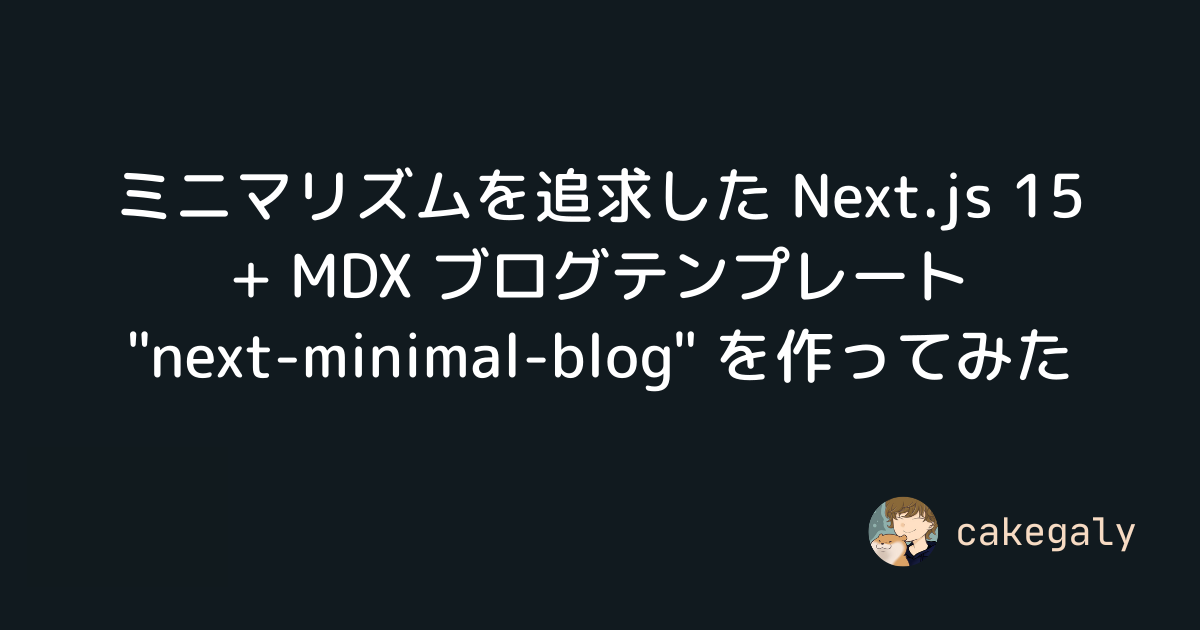
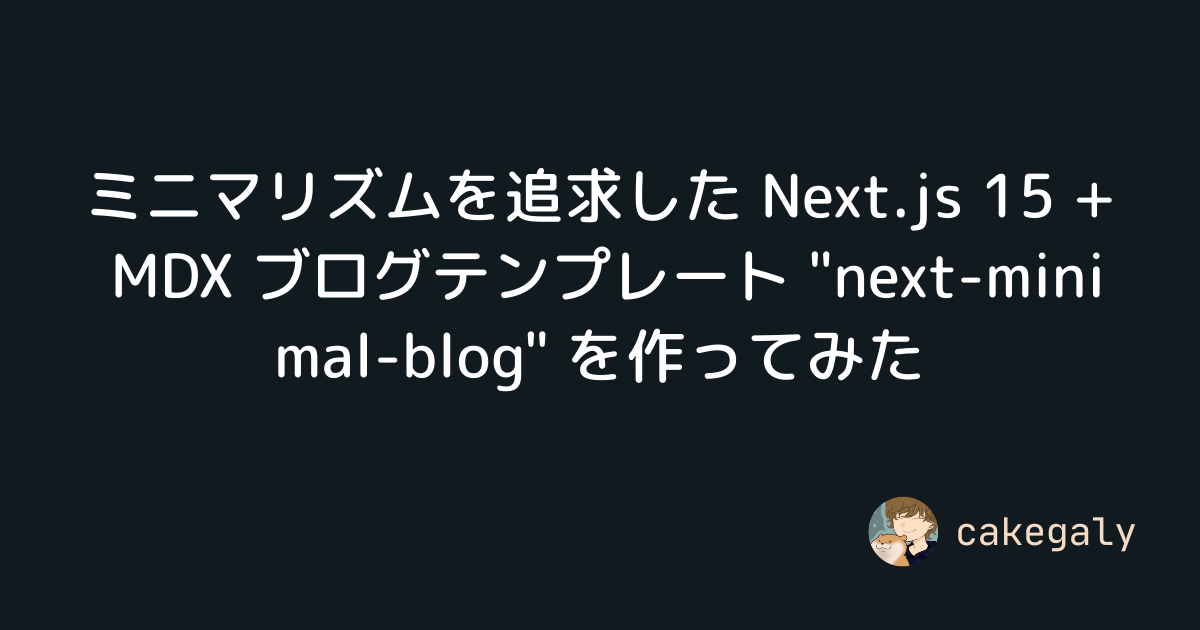
feat: update text wrap of ogp generator

diff --git a/scripts/generate-ogp.ts b/scripts/generate-ogp.ts
@@ -64,20 +64,24 @@ function wrapText(
   text: string,
   maxWidth: number
 ): string[] {
-  const words = text.split(' ');
   const lines: string[] = [];
   let line = '';
 
-  for (const word of words) {
-    const testLine = line + word + ' ';
+  for (let i = 0; i < text.length; i++) {
+    const testLine = line + text[i];
     const metrics = ctx.measureText(testLine);
+
     if (metrics.width > maxWidth && line !== '') {
-      lines.push(line.trim());
-      line = word + ' ';
+      lines.push(line);
+      line = text[i];
     } else {
       line = testLine;
     }
   }
-  lines.push(line.trim());
+
+  if (line) {
+    lines.push(line);
+  }
+
   return lines;
 }
